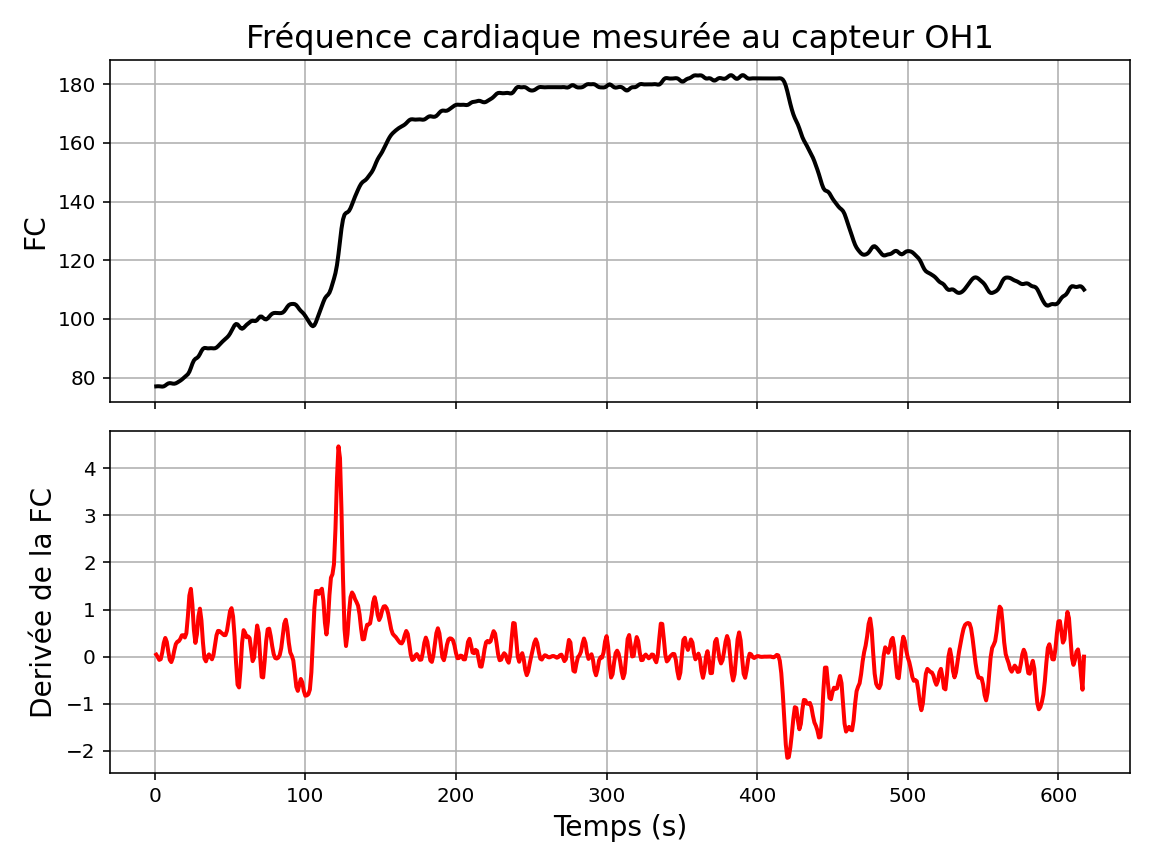
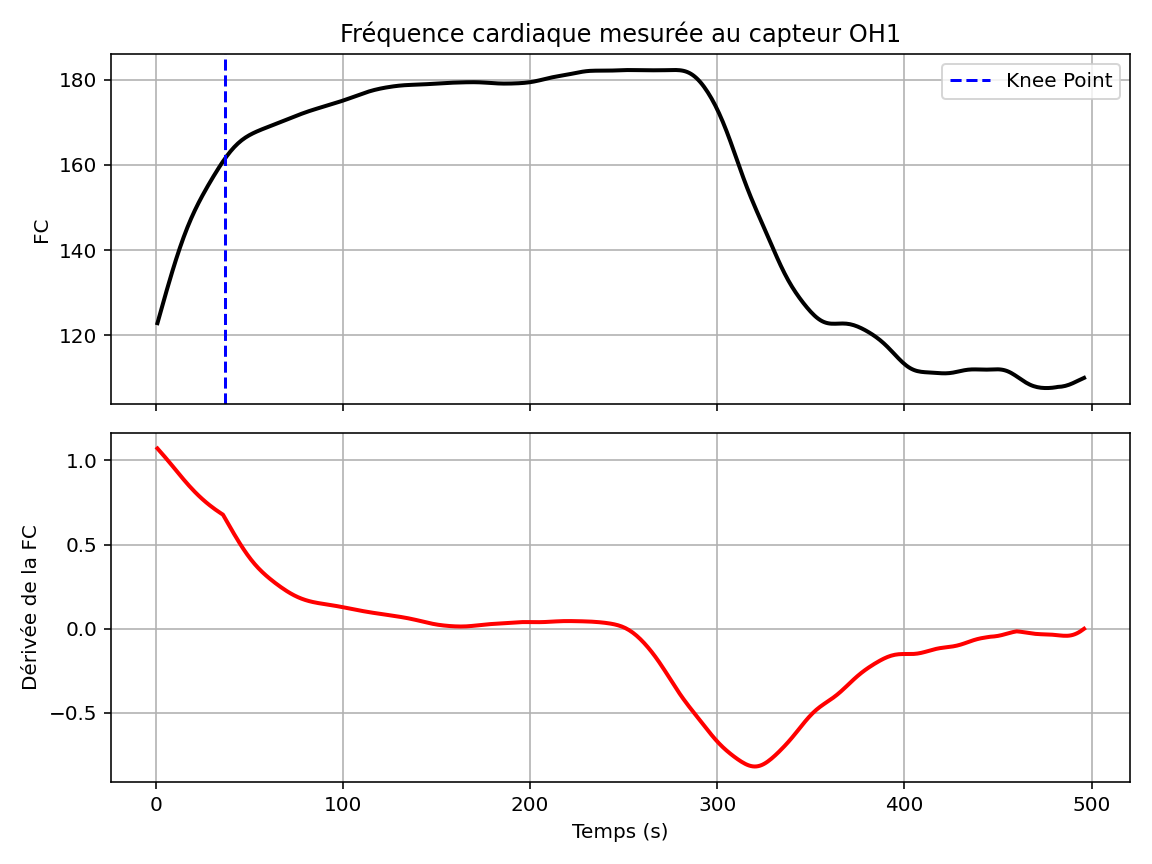
Add knee point method
it works !!!

diff --git a/calcul_courbe.py b/calcul_courbe.py
@@ -1,38 +1,34 @@
 import csv
-from turtle import color
 import matplotlib.pyplot as plt
+import numpy as np
 from scipy.signal import butter, filtfilt
 from datetime import datetime
-import numpy as np
 
 ###############################################################################
 #                        FUNCTION DEFINITION
 ###############################################################################
 
-def butterworth_filter(data, cutoff, fs, order=5, filter_type='low'):
-    """
-    Applique un filtre de Butterworth sur un tableau de données.
-    
-    :param data: Le tableau de données à filtrer (numpy array).
-    :param cutoff: La fréquence de coupure du filtre (Hz).
-    :param fs: La fréquence d'échantillonnage du signal (Hz).
-    :param order: L'ordre du filtre Butterworth (défaut: 5).
-    :param filter_type: Type de filtre ('low' pour passe-bas, 'high' pour passe-haut, 
-                        'bandpass' pour passe-bande, 'bandstop' pour coupe-bande).
-    :return: Le tableau filtré.
-    """
-    nyquist = 0.5 * fs  # Fréquence de Nyquist
-    normal_cutoff = np.array(cutoff) / nyquist  # Normalisation de la fréquence de coupure
+def butterworth_filter(data, cutoff, fs, order=5):
+    nyquist = 0.5 * fs
+    normal_cutoff = cutoff / nyquist
+    b, a = butter(order, normal_cutoff, btype='low', analog=False)
+    return filtfilt(b, a, data).tolist()
 
-    # Conception du filtre
-    b, a = butter(order, normal_cutoff, btype=filter_type, analog=False)
 
-    # Application du filtre avec filtfilt (évite le déphasage)
-    filtered_data = filtfilt(b, a, data)
+def tableau_derive(tableau):
+    return np.diff(tableau).tolist() + [0]
 
-    return filtered_data.tolist()  # Conversion en liste
 
-#----------------------------------
+def find_elbow_point(x, y):
+    """Détection du point de coude basée sur la première dérivée et le changement le plus brusque."""
+    x, y = np.array(x), np.array(y)
+    y_diff = np.diff(y)  # Première dérivée
+
+    # Recherche de l'indice où la chute est la plus forte
+    elbow_index = np.argmin(y_diff)  # L'endroit où la pente devient la plus négative
+
+    return x[elbow_index]
+
 def lissage_courbe(data, window_size):
     if window_size % 2 == 0:
         raise ValueError("La taille de la fenêtre doit être impaire.")
@@ -46,117 +42,73 @@ def lissage_courbe(data, window_size):
         end = min(len(data), i + half_window + 1)
         window = data[start:end]
         
-# Moyenne des points dans la fenêtre
+        # Moyenne des points dans la fenêtre
         smoothed_data.append(sum(window) / len(window))
     
     return smoothed_data 
-#----------------------------------
 
-#----------------------------------
-def dichotomie(data1, data2):
-    incr = 0
-    data = data1 - data2
-    borne_inf = 0
-    borne_sup = data1.index(max(data1))
-    
-    while abs(borne_inf-borne_sup) > 1 :
-        if incr > len(data) :
-            print("loop error")
-            break 
-        
-        half = (borne_inf+borne_sup)//2
-        if data[half] > 0 :
-            borne_sup = half
-        else :
-            borne_inf = half
-        
-        incr = incr+1
-
-    return borne_inf
- #----------------------------------                  
-
-def tableau_derive(tableau):
-    """
-    Calcule le tableau dérivé en prenant les différences successives entre 
-    les éléments consécutifs d'un tableau donné.
-
-    :param tableau: Liste des nombres
-    :return: Liste des différences consécutives
-    """
-    if len(tableau) < 2:
-        # Un tableau avec moins de 2 éléments n'a pas de dérivée
-        return []
-
-    derive = []
-    for i in range(len(tableau) - 1):
-        derive.append(tableau[i + 1] - tableau[i])
-    
-    derive.append(0)
-    return derive 
 
 ###############################################################################
 #                            MAIN FUNCTION
 ###############################################################################
 
-data_raw = []
-data_time =[]
-data_measure = []
-data_derive = []
+data_time, data_measure = [], []
 
+# Lecture des données depuis le fichier CSV
 with open('sample_400m.csv', mode='r', encoding='utf-8') as f:
     lecteur = csv.reader(f)
-    for index, ligne in enumerate(lecteur):
-        if index >= 3:
-           data_raw.append(ligne)
-           
-# Parcourir les données pour remplir les listes
-for row in data_raw:
-    if row[1] and row[2]:  # Vérifie si les colonnes "temps" et "mesure" sont présentes
-        # Conversion de hh:mm:ss en secondes
-        time_obj = datetime.strptime(row[1], "%H:%M:%S")
-        time_in_seconds = time_obj.hour * 3600 + time_obj.minute * 60 + time_obj.second
-        data_time.append(time_in_seconds)  # Ajoute le temps en secondes
-        data_measure.append(float(row[2]))  # Convertit en float pour les mesures    
-        
-#lissage de la courbe
-data_smooth = butterworth_filter(data_measure, 20, 100, order=5, filter_type='low')
+    next(lecteur), next(lecteur), next(lecteur)  # Ignorer les trois premières lignes
+    
+    for row in lecteur:
+        if row[1] and row[2]:
+            time_obj = datetime.strptime(row[1], "%H:%M:%S")
+            data_time.append(time_obj.hour * 3600 + time_obj.minute * 60 + time_obj.second)
+            data_measure.append(float(row[2]))
 
-#calcul derivee
+# Lissage de la courbe
+fs = 100  # Fréquence d'échantillonnage hypothétique
+cutoff = 5  # Fréquence de coupure
+
+data_smooth = butterworth_filter(data_measure, cutoff, fs)
+data_smooth = lissage_courbe(data_smooth, 29)
+
 data_derive = tableau_derive(data_smooth)
 
-#calcul max
-x_max_derive = data_derive.index(max(data_derive))
-print("1er point d'inflexion (montee en charge) :", data_time[x_max_derive], "secondes")
+# Suppression du début inutile
+start = np.argmax(data_derive)
+data_crop = data_smooth[start:]
+data_derive = tableau_derive(data_crop)
+data_derive = lissage_courbe(data_derive, 71)
 
-#calcul min 
-x_min_derive = data_derive.index(min(data_derive))
-print("2nd point d'inflexion (recuperation) :", data_time[x_min_derive], "secondes")
+data_derive_sec = tableau_derive(data_derive)
+data_time = [x - 121 for x in data_time[start:]]
 
-# affichage des traces
-# Création des deux graphiques
+# Application de la méthode du coude pour identifier un point clé
+tps_values = np.array(data_time)
+fc_values = np.array(data_crop)
+
+knee_point = find_elbow_point(tps_values[:150], data_derive[:150])
+
+# Affichage des résultats
+print("FCmax :", max(data_crop), "| Knee Point (Méthode du Coude) :", knee_point)
+
+# Affichage des graphiques
 fig, axs = plt.subplots(2, 1, figsize=(8, 6), sharex=True)
 
-
-# Premier graphique : tableau initial
-axs[0].plot(data_time, data_smooth, marker='', color='black', label="Tableau initial", linewidth=2)
-axs[0].set_title("Fréquence cardiaque mesurée au capteur OH1", fontsize=16)
-axs[0].set_ylabel("FC", fontsize=14)
+axs[0].plot(data_time, data_crop, color='black', linewidth=2)
+axs[0].set_title("Fréquence cardiaque mesurée au capteur OH1")
+axs[0].set_ylabel("FC")
 axs[0].grid(True)
-#axs[0].axvline(x=x_max_derive, color="red", linestyle="--")
-#axs[0].axvline(x=x_min_derive, color="red", linestyle="--")
 
-# Deuxième graphique : tableau dérivé
-axs[1].plot(data_time, data_derive, marker='', color='red', label="Tableau dérivé", linewidth=2)
-axs[1].set_xlabel("Temps (s)", fontsize=14)
-axs[1].set_ylabel("Derivée de la FC", fontsize=14)
+# Affichage du knee point
+axs[0].axvline(x=knee_point, color='blue', linestyle='--', label="Knee Point")
+axs[0].legend()
+
+axs[1].plot(data_time, data_derive, color='red', linewidth=2)
+axs[1].set_xlabel("Temps (s)")
+axs[1].set_ylabel("Dérivée de la FC")
 axs[1].grid(True)
-#axs[1].axvline(x=x_max_derive, color="red", linestyle="--")
-#axs[1].axvline(x=x_min_derive, color="red", linestyle="--")
 
-# Ajustement de l'espacement
 plt.tight_layout()
-
-# Sauvegarder avec un fond transparent
 plt.savefig("FC_Kevin.png", transparent=True)
-
 plt.show()
